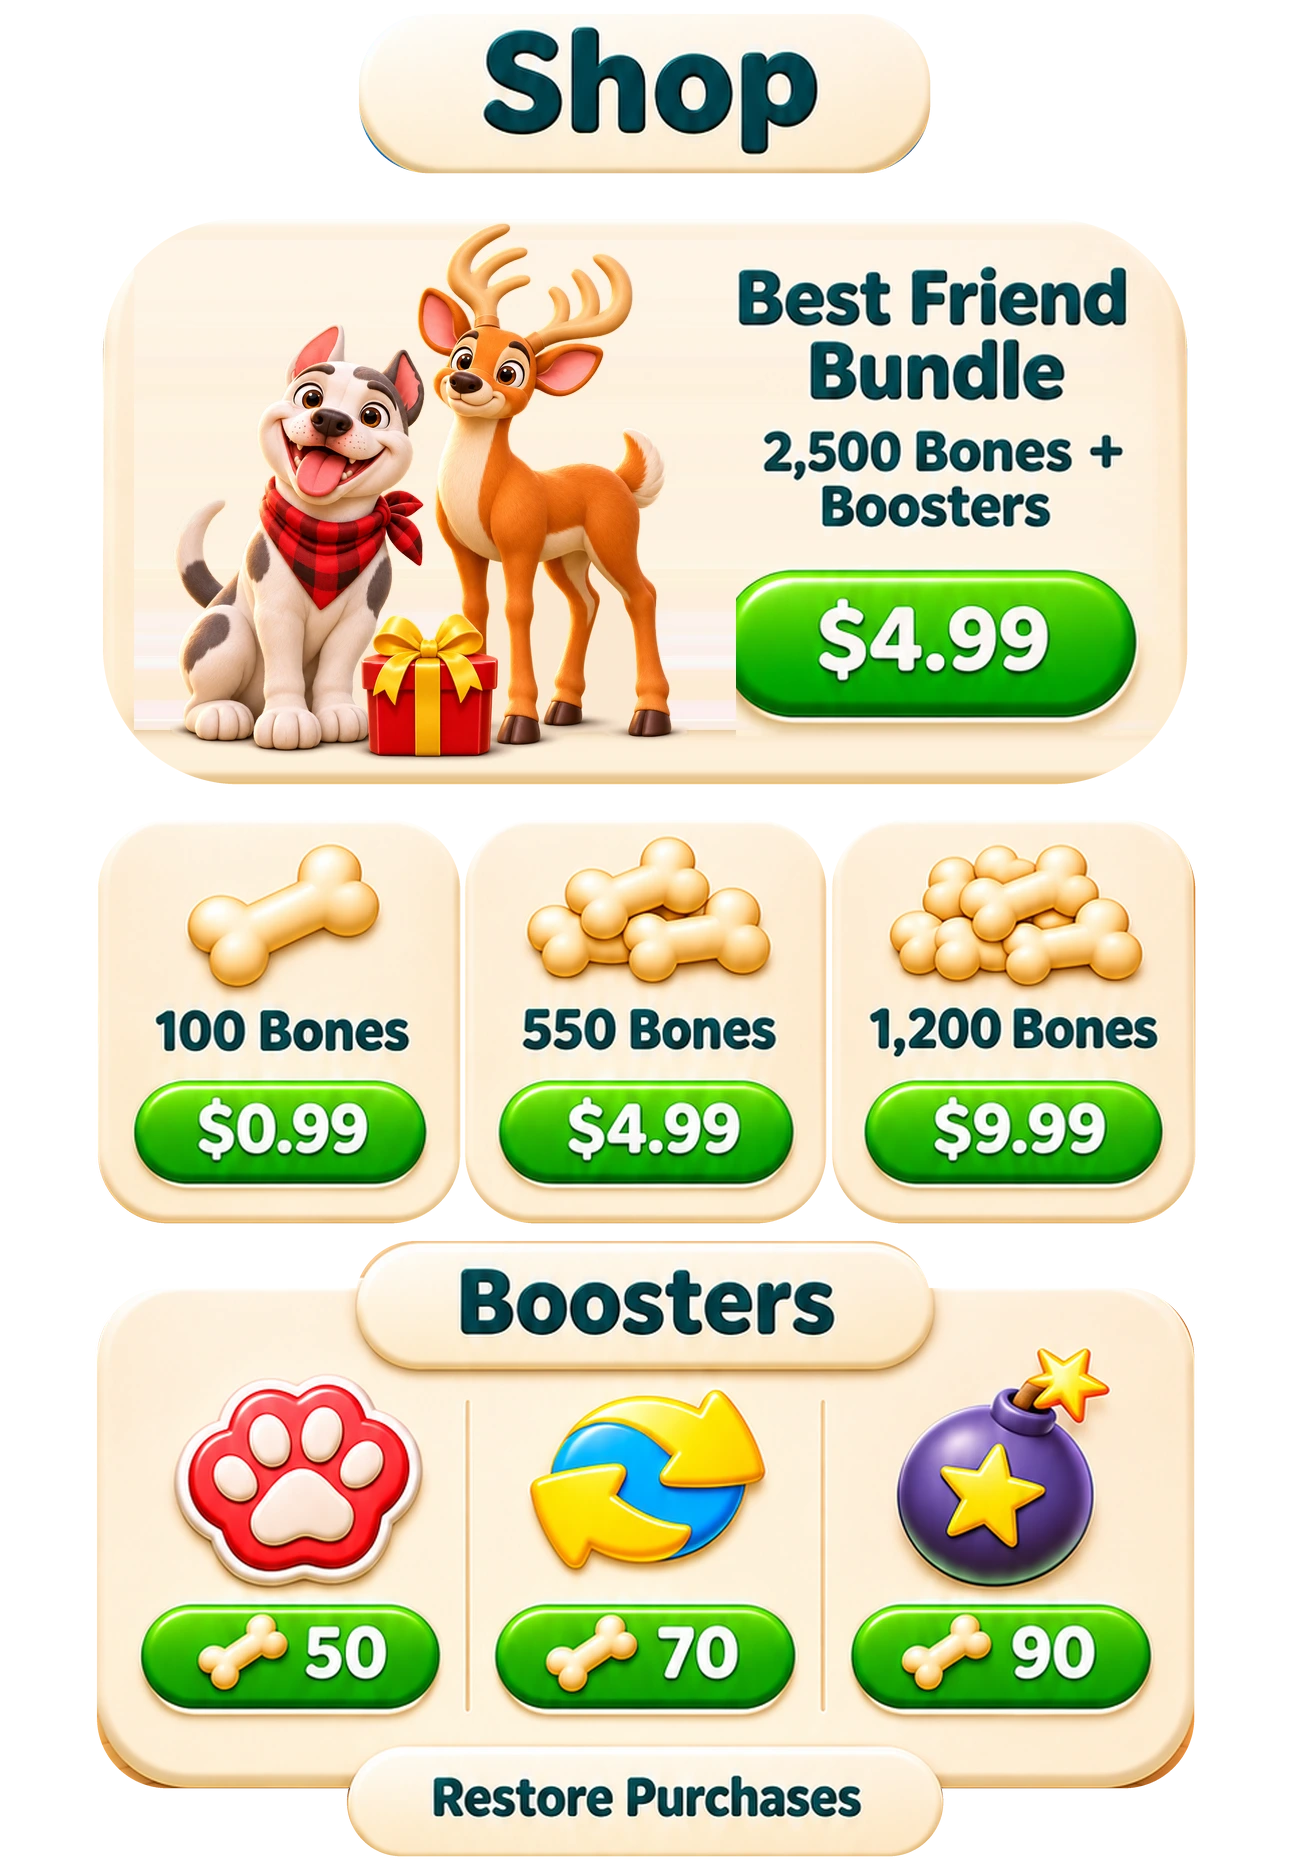
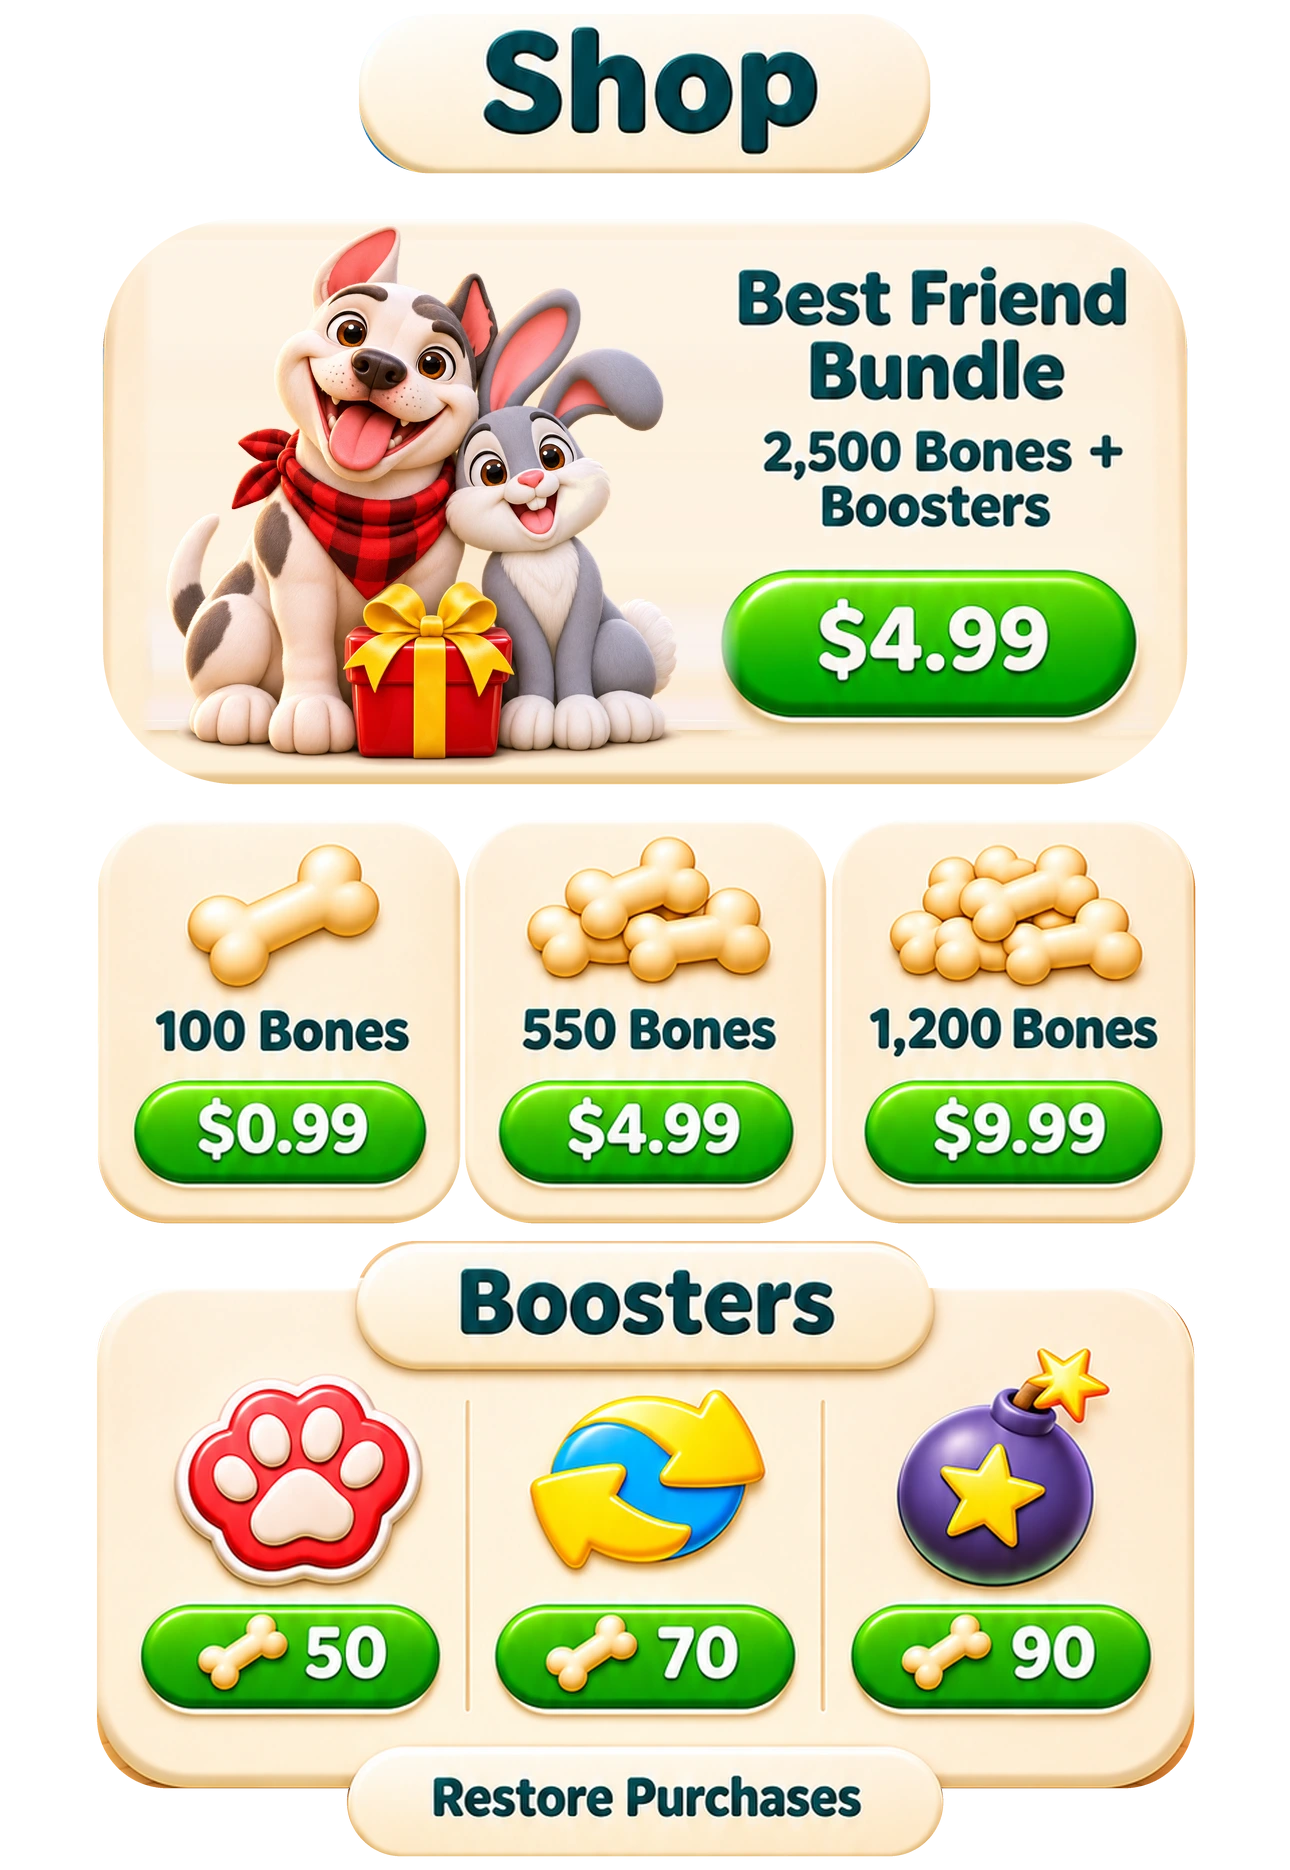
bovo11: Shop bundle art back to Rambo + bunny (new style, bigger)
Claude-Session: https://claude.ai/code/session_01HqXo8oXM9XTGkWGnUkjv9K

Changed region(s): [[0.093, 0.1241, 0.5271, 0.4342], [0.062, 0.1551, 0.093, 0.3412], [0.5581, 0.3102, 0.5891, 0.3722]]

diff --git a/bovo11/shop.html b/bovo11/shop.html
@@ -22,7 +22,7 @@ html,body{margin:0;height:100%;overflow:hidden;background:#3a2412;-webkit-user-s
 </style></head><body>
 <div id="bgb"></div>
 <div id="stage"><img id="bgi" src="shop/bg.jpg?v=3"><canvas id="fx"></canvas>
-<img id="panel" class="L" src="shop/panels.webp?v=1"></div>
+<img id="panel" class="L" src="shop/panels.webp?v=2"></div>
 <div id="ui"></div><div id="toast"></div>
 <script>
 'use strict';const pc=(v,b)=>v/b*100+'%';
